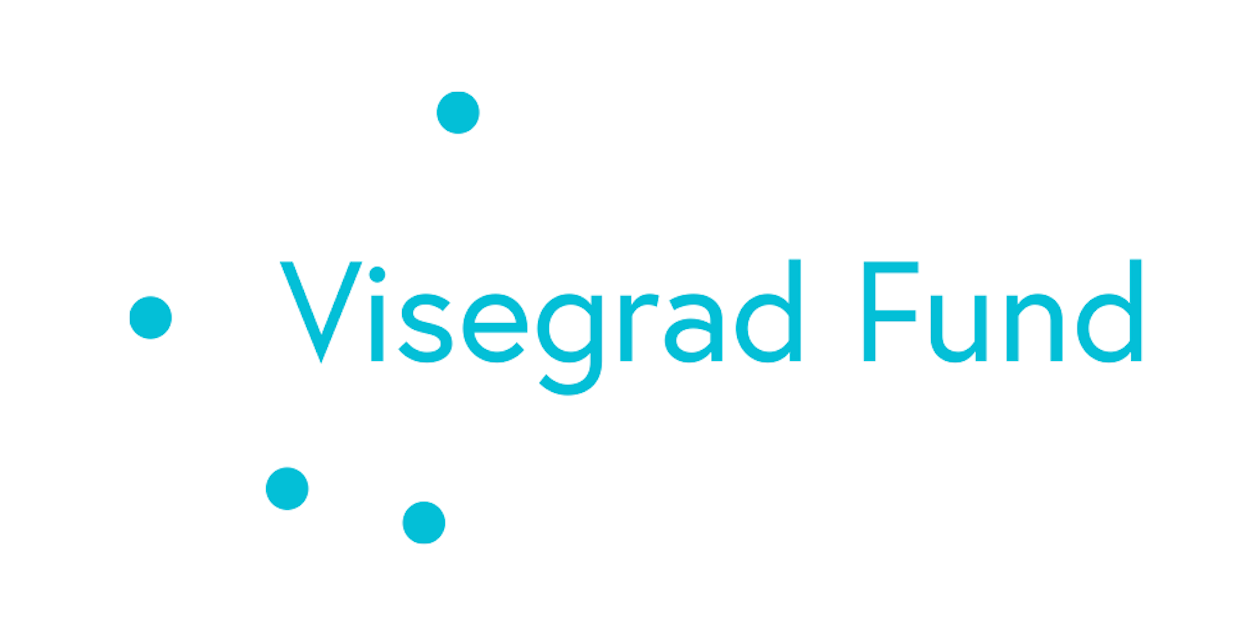
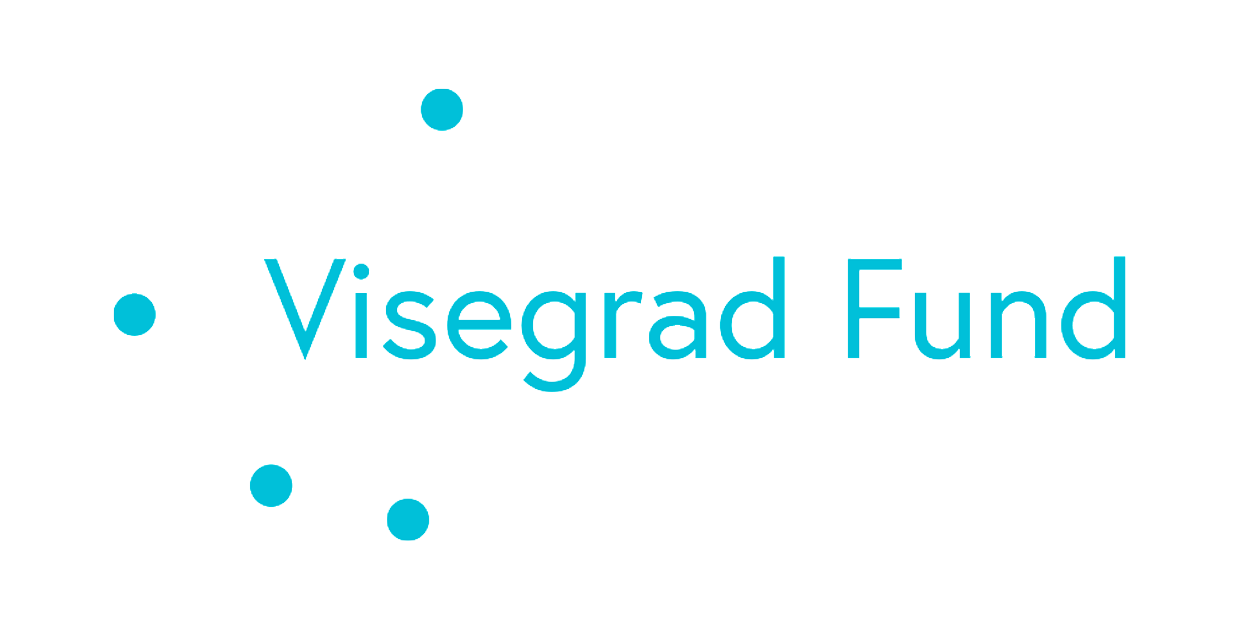
Bad changes

diff --git a/index.html b/index.html
@@ -11,7 +11,7 @@
   <link rel="stylesheet" href="https://cdnjs.cloudflare.com/ajax/libs/ekko-lightbox/5.3.0/ekko-lightbox.css" />
   <link rel="stylesheet" href="css/style.css">
   <link rel="shortcut icon" href="/img/favicon.png" type="image/png">
-  <title>Skepsis</title>
+  <title>Escape to diversity</title>
 </head>
 
 <body>
@@ -49,22 +49,23 @@
       
       <!--ANIMATED LOGO-->
   <a href="index.html" class="navbar-brand">
-    <img src="img/Think-Critical-Logo.png" class="animation-target" height="100px" alt="Think-Critical-Logo">
+    <img src="img/visegrad-fund.png" class="animation-target" height="100px" alt="Think-Critical-Logo">
   </a>
 
       <ol class="carousel-indicators">
         <li data-target="#myCarousel" data-slide-to="0" class="active"></li>
         <li data-target="#myCarousel" data-slide-to="1"></li>
+        <!--
         <li data-target="#myCarousel" data-slide-to="2"></li>
+        -->
       </ol>
       <div class="carousel-inner">
         <div class="carousel-item carousel-image-1 active">
           <div class="container">
             <div class="carousel-caption d-sm-block text-right mb-5">
-              <h1 class="display-3">Heading One</h1>
-              <p class="lead d-none d-sm-block">Lorem ipsum dolor sit amet consectetur adipisicing elit. Iste, aperiam vel ullam deleniti reiciendis ratione
-                quod aliquid inventore vero perspiciatis.</p>
-              <a href="#" class="btn btn-danger btn-lg">Learn More</a>
+              <h1 class="display-3">Visegrad Fund</h1>
+              <p class="lead d-none d-md-block">This Project supported by Visegrad Fund</p>
+              <a href="https://www.visegradfund.org" class="btn btn-outline-danger btn-lg">Learn More</a>
             </div>
           </div>
         </div>
@@ -72,25 +73,25 @@
         <div class="carousel-item carousel-image-2">
           <div class="container">
             <div class="carousel-caption d-sm-block mb-5">
-              <h1 class="display-3">Heading Two</h1>
-              <p class="lead d-none d-sm-block">Lorem ipsum dolor sit amet consectetur adipisicing elit. Iste, aperiam vel ullam deleniti reiciendis ratione
-                quod aliquid inventore vero perspiciatis.</p>
-              <a href="#" class="btn btn-primary btn-lg">Learn More</a>
+              <h1 class="display-3">Escape to diversity</h1>
+              <p class="lead d-none d-sm-block">Is an international project which is supported by the Visegrad Fund. This project will deal with the low level of media literacy (ML) and information literacy (IL) among young people aged 18-24 in V4 region</p>
+              <a href="https://www.visegradfund.org" class="btn btn-outline-primary btn-lg">Learn More</a>
             </div>
           </div>
         </div>
 
+        <!--
         <div class="carousel-item carousel-image-3">
           <div class="container">
             <div class="carousel-caption d-sm-block text-right mb-5">
-              <h1 class="display-3">Heading Three</h1>
-              <p class="lead d-none d-sm-block">Lorem ipsum dolor sit amet consectetur adipisicing elit. Iste, aperiam vel ullam deleniti reiciendis ratione
-                quod aliquid inventore vero perspiciatis.</p>
-              <a href="#" class="btn btn-success btn-lg">Learn More</a>
+              <h1 class="display-3">Think critical</h1>
+              <p class="lead d-none d-sm-block"></p>
+              <a href="https://www.visegradfund.org" class="btn btn-success btn-lg">Learn More</a>
             </div>
           </div>
         </div>
       </div>
+      -->
 
       <a href="#myCarousel" data-slide="prev" class="carousel-control-prev">
         <span class="carousel-control-prev-icon"></span>
@@ -104,6 +105,7 @@
 
 
   <!-- INFO SECTION -->
+  <!--
   <section id="info" class="py-3">
     <div class="container">
       <div class="row">
@@ -122,24 +124,36 @@
       </div>
     </div>
   </section>
+  -->
 
 
   <!-- HOME HEADING SECTION -->
+<!--
   <section class="home-title p-5">
     <div class="dark-overlay">
-      <div class="row">
+      <div class="row p-auto">
         <div class="col">
-          <div class="container pt-5">
+          <div class="container">
             <h1>Description of the project</h1>
           </div>
         </div>
       </div>
     </div>
   </section>
+-->
 
   <!--HOME ICON SECTION  -->
   <section id="home-text" class="py-5">
     <div class="container">
+
+      <div class="row p-auto text-center">
+        <div class="col">
+          <div class="container">
+            <h1>Description of the project</h1>
+          </div>
+        </div>
+      </div>
+
       <div class="row">
         <div class="col-12">
           <p class="text-justify">
@@ -165,7 +179,7 @@
     <div class="dark-overlay">
       <div class="row">
         <div class="col">
-          <div class="container pt-5">
+          <div class="container">
             <h1>Objectives</h1>
           </div>
         </div>
@@ -208,7 +222,7 @@
     <div class="dark-overlay">
       <div class="row">
         <div class="col">
-          <div class="container pt-5">
+          <div class="container">
             <h1>Project phases</h1>
           </div>
         </div>
@@ -260,7 +274,7 @@
       <div class="dark-overlay">
         <div class="row">
           <div class="col">
-            <div class="container pt-5">
+            <div class="container">
               <h1>Project partners</h1>
             </div>
           </div>

diff --git a/css/style.css b/css/style.css
@@ -139,9 +139,16 @@ justify-content: center
   color: #007bff
 }
 
+.home-title .container {
+  padding-top: 3em;
+}
 
-
-
+@media (max-width: 500px) {
+  .home-title .container {
+    padding-top: 15%;
+    padding: 1em;
+  }
+}
 
 
 .animation-target {
